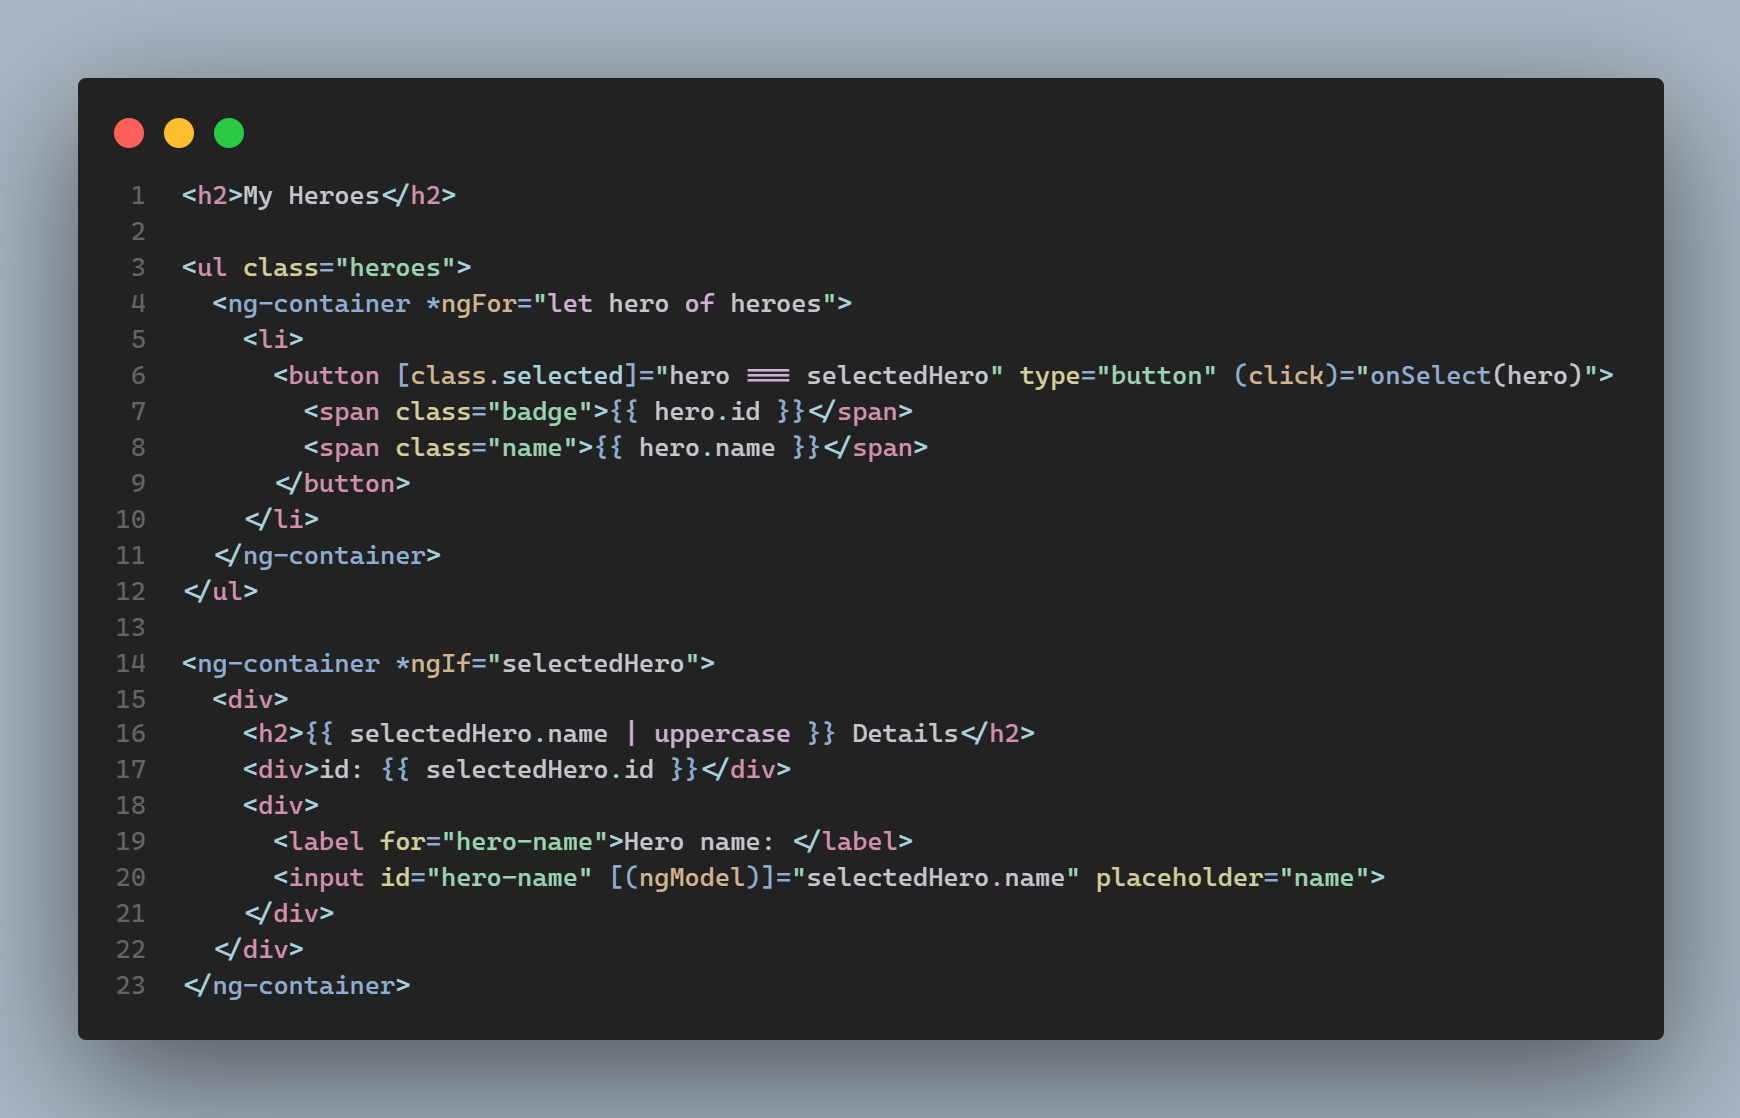
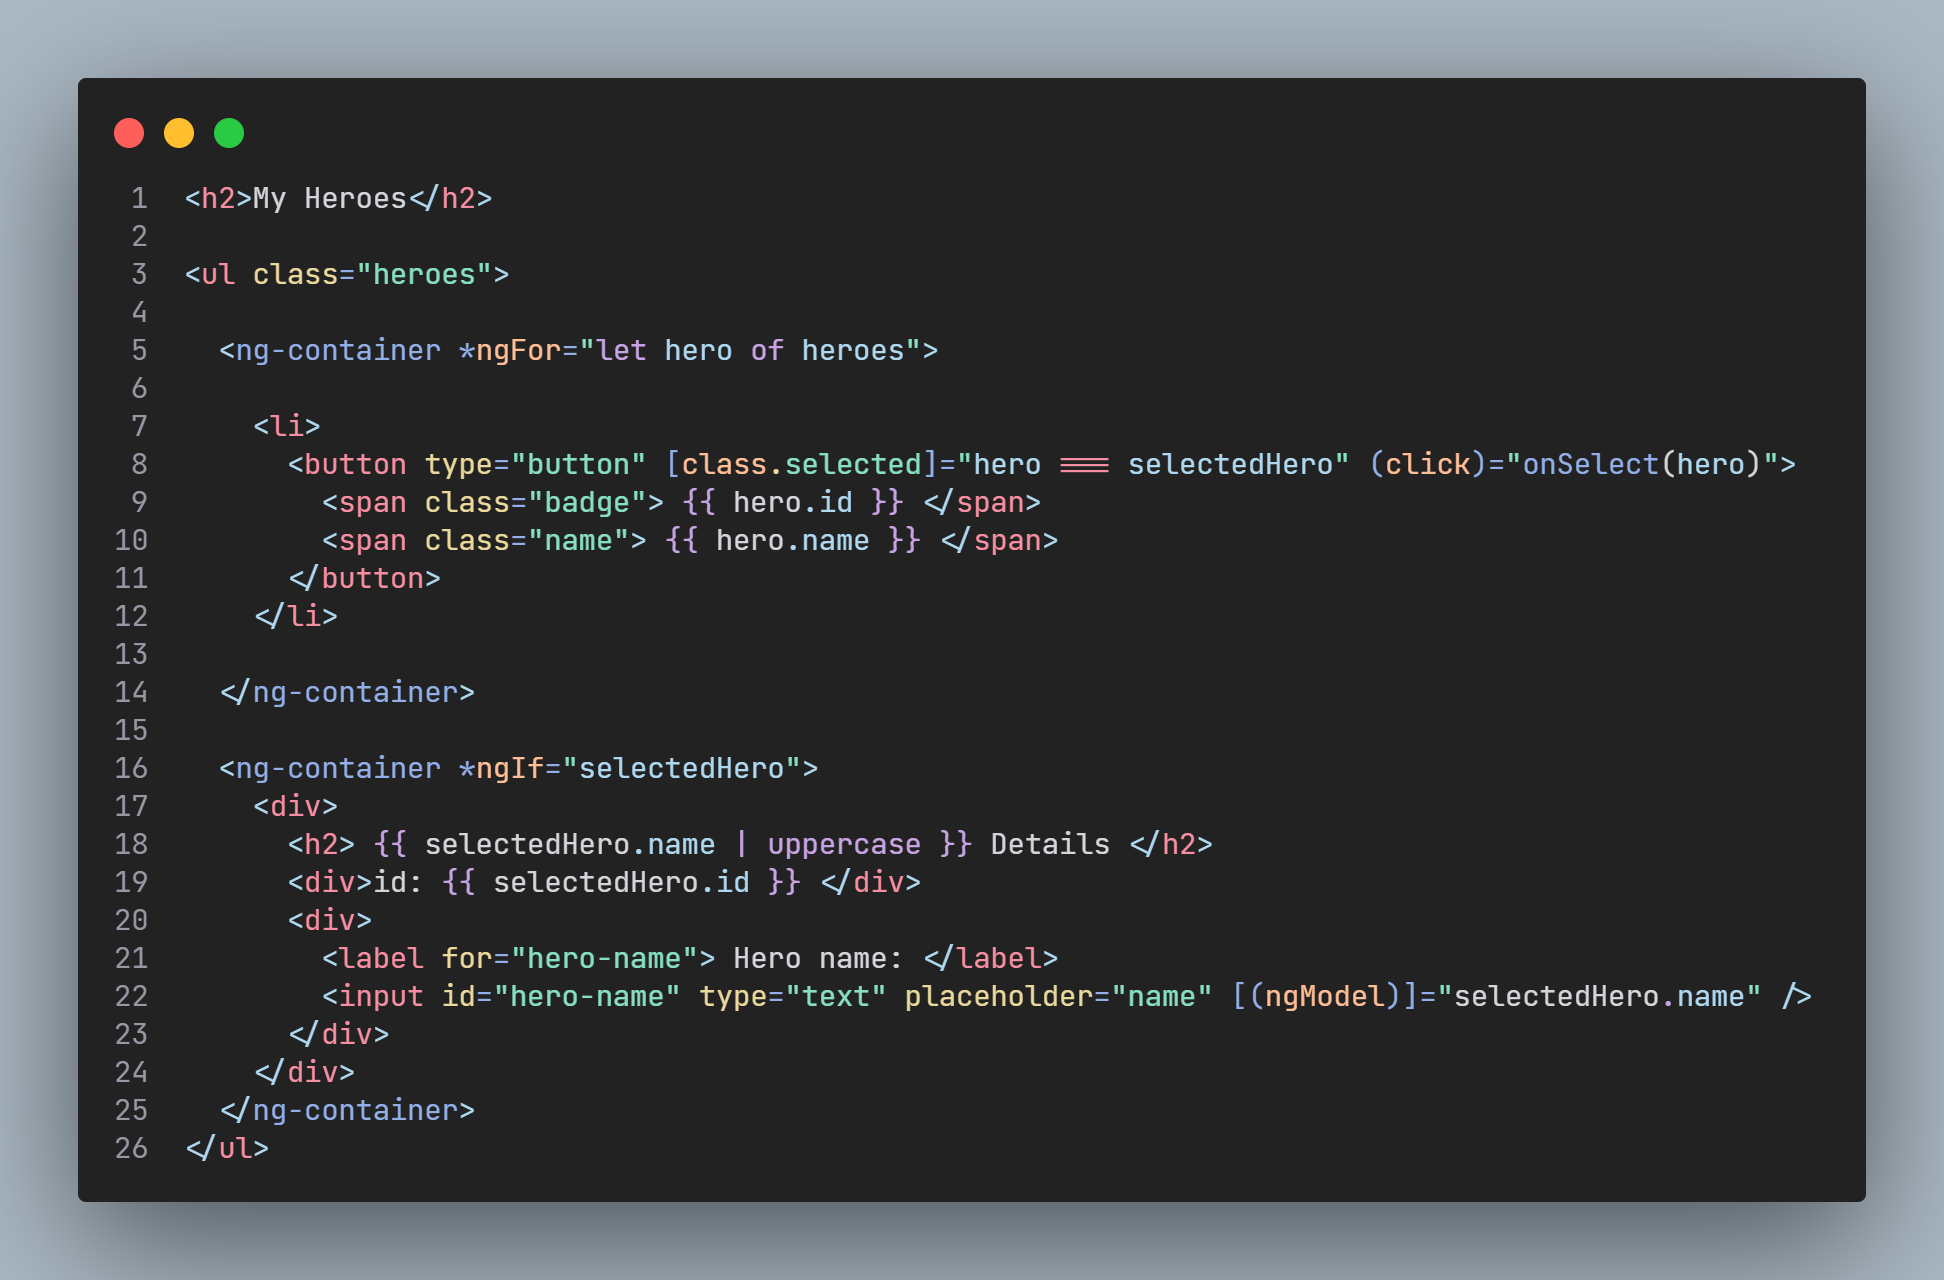
fix: vscode-angular-html scope changes

Changed region(s): [[0.031, 0.0608, 0.9621, 0.9428]]

diff --git a/README.md b/README.md
@@ -72,13 +72,3 @@ I suggest adding this configuration to your VS Code `settings.json` file:
 ## Override this theme
 
 To override this (or any other) theme in your personal config file, please follow the guide in the [color theme](https://code.visualstudio.com/api/extension-guides/color-theme) documentation. This is handy for small tweaks to the theme without having to fork and maintain your own theme.
-
-## Contribute
-
-1. Clone and open this [repository](https://github.com/MichaellAlavedraMunayco/angular-vscode-theme) in VS Code
-2. Press `F5` to open a new window with your extension loaded
-3. Open `Code > Preferences > Color Theme` [`⌘k ⌘t`] and pick the "Angular ..." theme you want to update.
-4. Make changes to the [`/theme`](https://github.com/MichaellAlavedraMunayco/angular-vscode-theme/main/themes) folder.
-    - **UI**: For all changes to the "outer UI", like (status bar, file navigation etc.), take a look at the [Theme Color](https://code.visualstudio.com/api/references/theme-color) reference.
-    - **Syntax**: For changes to the "code highlighting", examine the syntax scopes by invoking the [`Developer: Inspect Editor Tokens and Scopes`](https://code.visualstudio.com/api/language-extensions/syntax-highlight-guide#scope-inspector) command from the Command Palette (`Ctrl+Shift+P` or `Cmd+Shift+P` on Mac) in the Extension Development Host window.
-5. Once you're happy, commit your changes and open a PR.
